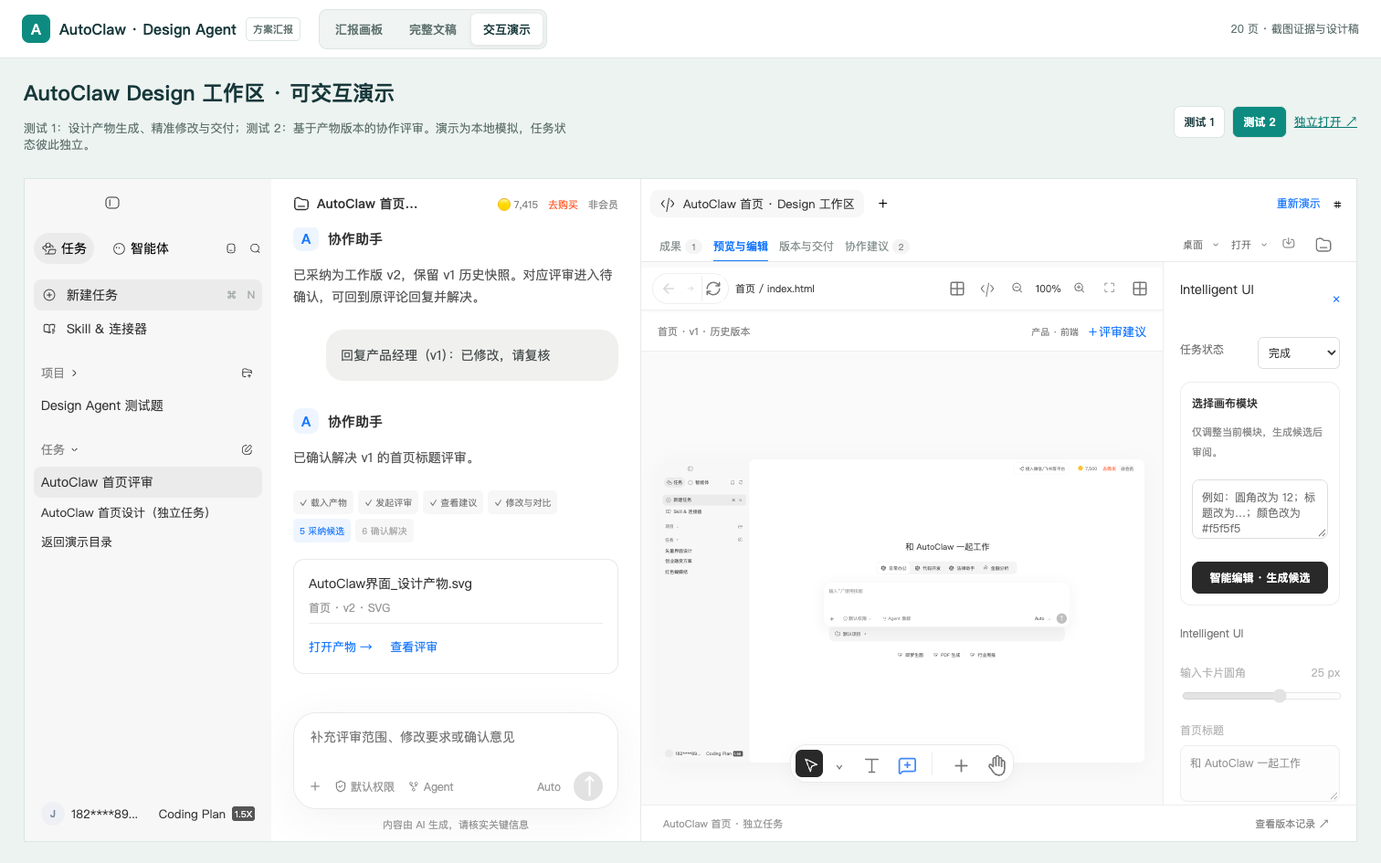
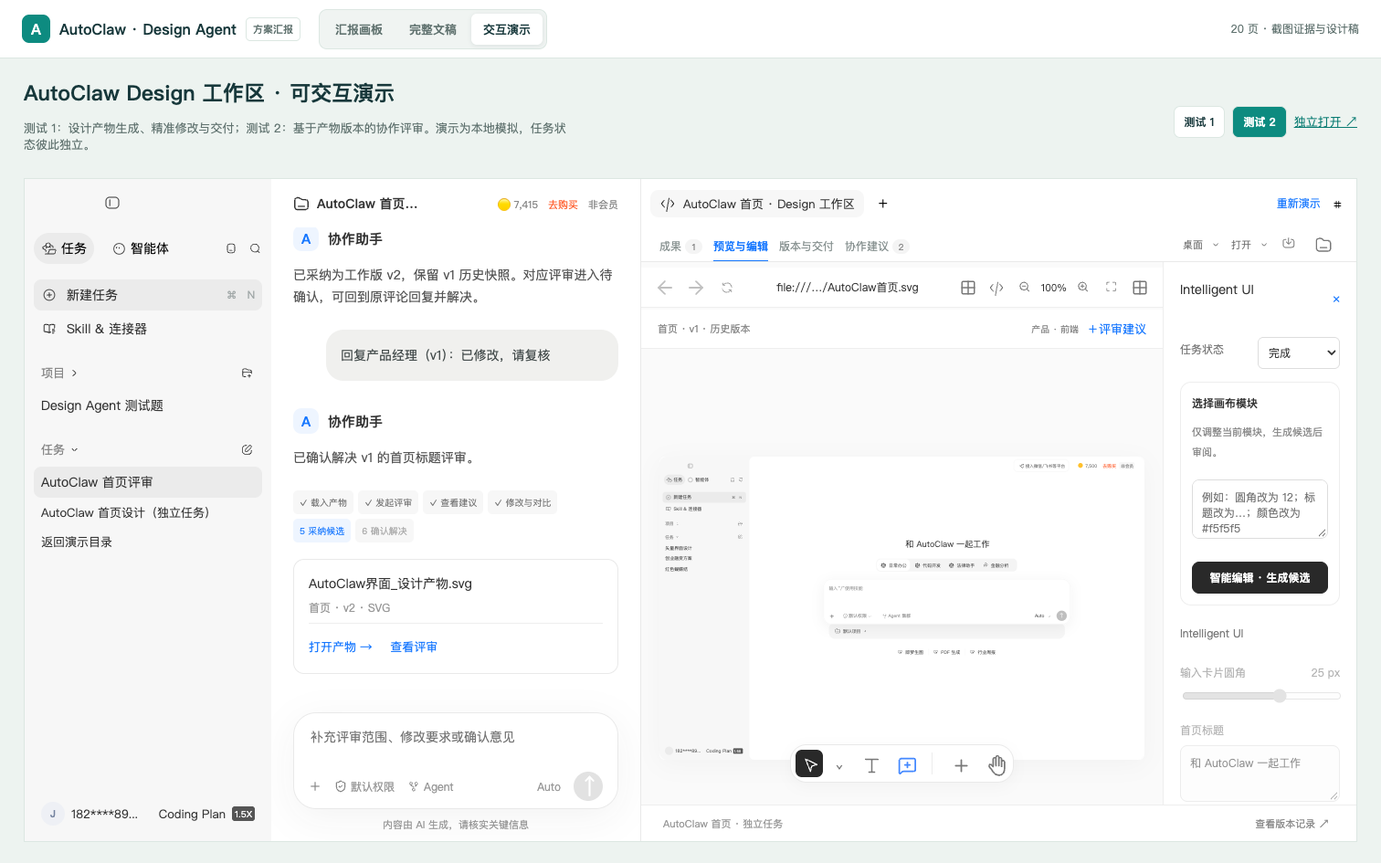
Open report cover directly and restore original preview navigation

diff --git a/docs/report/demo/autoclaw_task1_v18/icon-polish.js b/docs/report/demo/autoclaw_task1_v18/icon-polish.js
@@ -1,3 +1,3 @@
-(()=>{const style=document.createElement('style');style.textContent=`.canvas-top-tools{display:flex!important;flex-wrap:nowrap!important;gap:7px!important;min-height:44px!important;padding:6px 12px!important;box-sizing:border-box;overflow:visible!important}.canvas-top-tools>*{flex-shrink:0;white-space:nowrap!important}.canvas-top-tools .preview-file{flex:1 1 auto;min-width:24px;overflow:hidden;text-overflow:ellipsis;white-space:nowrap!important;font-size:11px}.canvas-top-tools button{display:inline-flex;align-items:center;justify-content:center;width:26px!important;height:28px!important;padding:3px!important;min-width:26px!important}.canvas-top-tools .preview-nav{gap:0;padding:2px 5px}.canvas-top-tools .preview-nav button{width:24px!important;min-width:24px!important}.export-icon{display:inline-block;width:24px;height:24px;background:currentColor;mask:var(--icon) center/24px 24px no-repeat;-webkit-mask:var(--icon) center/24px 24px no-repeat;pointer-events:none}.canvas-top-tools .export-icon{width:18px;height:18px;mask-size:24px 24px;-webkit-mask-size:24px 24px}.canvas-top-tools button.active{color:#287dff;background:#f0f6ff;border-radius:5px}.canvas-bottom-tools{height:42px!important;border-radius:18px!important;padding:5px!important;gap:9px!important}.canvas-bottom-tools button{width:30px!important;height:30px!important;border-radius:7px!important}.canvas-bottom-tools i{height:24px!important;margin:0 5px!important}.canvas-bottom-tools .select-menu summary{padding:5px}.work-top .work-tabs{flex-shrink:1;min-width:0;gap:12px!important}.work-top .work-tabs button{font-size:12px!important;white-space:nowrap;flex-shrink:0;padding:12px 0!important}.work-top .reading-menu summary{padding:0 3px;font-size:11px}.work-top{gap:5px!important}.work-tabs .count{font-size:10px}.canvas-bottom-tools [data-native=pan].pan-active{background:#292929;color:white}.native-chevron{width:14px!important}.canvas-top-tools span:not(.export-icon):not(.preview-file){font-size:11px}.preview-nav button[data-ui=refresh]{border-left:1px solid #eee;border-radius:0!important}@media(max-width:1100px){.work-top .work-tabs{gap:8px!important}.work-top .work-tabs button{font-size:11px!important}.work-top>.spacer{min-width:0!important}.canvas-top-tools{gap:3px!important;padding:5px 8px!important}.canvas-top-tools .preview-file{font-size:10px}}`;style.textContent+=`.export-image{display:block;width:24px!important;height:24px!important;filter:brightness(0);opacity:.53;pointer-events:none}.cursor-image{filter:brightness(0) invert(1);opacity:1}.canvas-top-tools .export-image{width:18px!important;height:18px!important}.canvas-bottom-tools [data-tool=comment] .export-image,.canvas-bottom-tools [data-tool=review] .export-image{filter:invert(39%) sepia(99%) saturate(2232%) hue-rotate(204deg) brightness(104%) contrast(102%);opacity:1}.work-top>[data-action=manager-open] img{display:block!important;width:24px!important;height:24px!important;filter:brightness(0);opacity:.53}.work-top>[data-action=manager-open]::after{display:none!important}.native-control-icon,.native-chevron{background:transparent!important;mask:none!important;-webkit-mask:none!important}.native-control-icon img{width:18px;height:18px;display:block}.native-chevron img{width:16px;height:16px;display:block;filter:brightness(0);opacity:.53}`;document.head.append(style);
+(()=>{const style=document.createElement('style');style.textContent=`.canvas-top-tools{display:flex!important;flex-wrap:nowrap!important;gap:7px!important;min-height:44px!important;padding:6px 12px!important;box-sizing:border-box;overflow:visible!important}.canvas-top-tools>*{flex-shrink:0;white-space:nowrap!important}.canvas-top-tools .preview-file{flex:1 1 auto;min-width:24px;overflow:hidden;text-overflow:ellipsis;white-space:nowrap!important;font-size:11px}.canvas-top-tools button{display:inline-flex;align-items:center;justify-content:center;width:26px!important;height:28px!important;padding:3px!important;min-width:26px!important}.canvas-top-tools .preview-nav{gap:0;padding:2px 5px}.canvas-top-tools .preview-nav button{width:24px!important;min-width:24px!important}.export-icon{display:inline-block;width:24px;height:24px;background:currentColor;mask:var(--icon) center/24px 24px no-repeat;-webkit-mask:var(--icon) center/24px 24px no-repeat;pointer-events:none}.canvas-top-tools .export-icon{width:18px;height:18px;mask-size:24px 24px;-webkit-mask-size:24px 24px}.canvas-top-tools button.active{color:#287dff;background:#f0f6ff;border-radius:5px}.canvas-bottom-tools{height:42px!important;border-radius:18px!important;padding:5px!important;gap:9px!important}.canvas-bottom-tools button{width:30px!important;height:30px!important;border-radius:7px!important}.canvas-bottom-tools i{height:24px!important;margin:0 5px!important}.canvas-bottom-tools .select-menu summary{padding:5px}.work-top .work-tabs{flex-shrink:1;min-width:0;gap:12px!important}.work-top .work-tabs button{font-size:12px!important;white-space:nowrap;flex-shrink:0;padding:12px 0!important}.work-top .reading-menu summary{padding:0 3px;font-size:11px}.work-top{gap:5px!important}.work-tabs .count{font-size:10px}.canvas-bottom-tools [data-native=pan].pan-active{background:#292929;color:white}.native-chevron{width:14px!important}.canvas-top-tools span:not(.export-icon):not(.preview-file){font-size:11px}.preview-nav button[data-ui=refresh]{border-left:1px solid #eee;border-radius:0!important}@media(max-width:1100px){.work-top .work-tabs{gap:8px!important}.work-top .work-tabs button{font-size:11px!important}.work-top>.spacer{min-width:0!important}.canvas-top-tools{gap:3px!important;padding:5px 8px!important}.canvas-top-tools .preview-file{font-size:10px}}`;style.textContent+=`.export-image{display:block;width:24px!important;height:24px!important;filter:brightness(0);opacity:.53;pointer-events:none}.cursor-image{filter:brightness(0) invert(1);opacity:1}.canvas-top-tools .export-image{width:18px!important;height:18px!important}.canvas-bottom-tools [data-tool=comment] .export-image,.canvas-bottom-tools [data-tool=review] .export-image{filter:invert(39%) sepia(99%) saturate(2232%) hue-rotate(204deg) brightness(104%) contrast(102%);opacity:1}.work-top>[data-action=manager-open] img{display:block!important;width:24px!important;height:24px!important;filter:brightness(0);opacity:.53}.work-top>[data-action=manager-open]::after{display:none!important}.native-control-icon,.native-chevron{background:transparent!important;mask:none!important;-webkit-mask:none!important}.native-control-icon img{width:18px;height:18px;display:block}.native-chevron img{width:16px;height:16px;display:block;filter:brightness(0);opacity:.53}`;style.textContent+=`.canvas-top-tools .preview-nav{border:0!important;background:transparent!important;border-radius:0!important;padding:0!important;gap:7px!important}.canvas-top-tools .preview-nav button{width:27px!important;min-width:27px!important;height:30px!important;border:0!important;background:transparent!important}.preview-nav button[data-ui=refresh]{border:0!important}.canvas-top-tools .preview-nav .export-image{width:24px!important;height:24px!important;opacity:.38}.canvas-top-tools .preview-nav button:disabled{opacity:.65}.preview-nav [data-ui=forward] img{transform:scaleX(-1)}.canvas-top-tools .preview-file{text-align:center!important;font-size:12px!important;font-weight:400!important;color:#333;line-height:30px}.canvas-top-tools .preview-file::before{content:''}.canvas-top-tools{gap:5px!important}`;document.head.append(style);
 function set(el,name,label){if(!el||el.dataset.iconPolished===name)return;el.dataset.iconPolished=name;el.innerHTML=`<img class="export-image ${name==='cursor'?'cursor-image':''}" src="assets/${name}.svg" alt="">`;if(label){el.title=label;el.setAttribute('aria-label',label)}}
-function polish(){const bar=document.querySelector('.canvas-top-tools');if(bar){set(bar.querySelector('[data-ui=back]'),'native-arrow-left','后退');set(bar.querySelector('[data-ui=forward]'),'native-arrow-right','前进');set(bar.querySelector('[data-ui=refresh]'),'refresh-cw','刷新');set(bar.querySelector('[data-tab=canvas]'),'native-grid-2x2','画布');set(bar.querySelector('[data-tab=code]'),'file-code','代码');set(bar.querySelector('[data-action=zoom-out]'),'zoom-out-export','缩小');set(bar.querySelector('[data-action=zoom-in]'),'zoom-in-export','放大');set(bar.querySelector('[data-action=fit]'),'fit-export','适应画布');set(bar.querySelector('[data-action=toggle-panel]'),'native-grid-2x2','展开或收起参数')}const bottom=document.querySelector('.canvas-bottom-tools');if(bottom){set(bottom.querySelector('[data-tool=select]'),'cursor','选择');set(bottom.querySelector('[data-tool=text]'),'type','编辑文字');set(bottom.querySelector('[data-tool=comment],[data-tool=review]'),'comment-plus','画布评论');set(bottom.querySelector('[data-native=add]'),'plus-export','添加项目文件');set(bottom.querySelector('[data-native=pan]'),'hand-export','拖动画布')}}new MutationObserver(polish).observe(document.querySelector('.task1-body'),{childList:true,subtree:true});polish();})();
+function polish(){const bar=document.querySelector('.canvas-top-tools');if(bar){const file=bar.querySelector('.preview-file');if(file&&file.textContent!=='file:///…/AutoClaw首页.svg'){file.textContent='file:///…/AutoClaw首页.svg';file.title='AutoClaw首页_设计产物.svg'}set(bar.querySelector('[data-ui=back]'),'native-arrow-left','后退');set(bar.querySelector('[data-ui=forward]'),'native-arrow-left','前进');set(bar.querySelector('[data-ui=refresh]'),'browser-refresh','刷新');set(bar.querySelector('[data-tab=canvas]'),'native-grid-2x2','画布');set(bar.querySelector('[data-tab=code]'),'file-code','代码');set(bar.querySelector('[data-action=zoom-out]'),'zoom-out-export','缩小');set(bar.querySelector('[data-action=zoom-in]'),'zoom-in-export','放大');set(bar.querySelector('[data-action=fit]'),'fit-export','适应画布');set(bar.querySelector('[data-action=toggle-panel]'),'native-grid-2x2','展开或收起参数')}const bottom=document.querySelector('.canvas-bottom-tools');if(bottom){set(bottom.querySelector('[data-tool=select]'),'cursor','选择');set(bottom.querySelector('[data-tool=text]'),'type','编辑文字');set(bottom.querySelector('[data-tool=comment],[data-tool=review]'),'comment-plus','画布评论');set(bottom.querySelector('[data-native=add]'),'plus-export','添加项目文件');set(bottom.querySelector('[data-native=pan]'),'hand-export','拖动画布')}}new MutationObserver(polish).observe(document.querySelector('.task1-body'),{childList:true,subtree:true});polish();})();

diff --git a/docs/report/demo/autoclaw_task2_v18/icon-polish.js b/docs/report/demo/autoclaw_task2_v18/icon-polish.js
@@ -1,3 +1,3 @@
-(()=>{const style=document.createElement('style');style.textContent=`.canvas-top-tools{display:flex!important;flex-wrap:nowrap!important;gap:7px!important;min-height:44px!important;padding:6px 12px!important;box-sizing:border-box;overflow:visible!important}.canvas-top-tools>*{flex-shrink:0;white-space:nowrap!important}.canvas-top-tools .preview-file{flex:1 1 auto;min-width:24px;overflow:hidden;text-overflow:ellipsis;white-space:nowrap!important;font-size:11px}.canvas-top-tools button{display:inline-flex;align-items:center;justify-content:center;width:26px!important;height:28px!important;padding:3px!important;min-width:26px!important}.canvas-top-tools .preview-nav{gap:0;padding:2px 5px}.canvas-top-tools .preview-nav button{width:24px!important;min-width:24px!important}.export-icon{display:inline-block;width:24px;height:24px;background:currentColor;mask:var(--icon) center/24px 24px no-repeat;-webkit-mask:var(--icon) center/24px 24px no-repeat;pointer-events:none}.canvas-top-tools .export-icon{width:18px;height:18px;mask-size:24px 24px;-webkit-mask-size:24px 24px}.canvas-top-tools button.active{color:#287dff;background:#f0f6ff;border-radius:5px}.canvas-bottom-tools{height:42px!important;border-radius:18px!important;padding:5px!important;gap:9px!important}.canvas-bottom-tools button{width:30px!important;height:30px!important;border-radius:7px!important}.canvas-bottom-tools i{height:24px!important;margin:0 5px!important}.canvas-bottom-tools .select-menu summary{padding:5px}.work-top .work-tabs{flex-shrink:1;min-width:0;gap:12px!important}.work-top .work-tabs button{font-size:12px!important;white-space:nowrap;flex-shrink:0;padding:12px 0!important}.work-top .reading-menu summary{padding:0 3px;font-size:11px}.work-top{gap:5px!important}.work-tabs .count{font-size:10px}.canvas-bottom-tools [data-native=pan].pan-active{background:#292929;color:white}.native-chevron{width:14px!important}.canvas-top-tools span:not(.export-icon):not(.preview-file){font-size:11px}.preview-nav button[data-ui=refresh]{border-left:1px solid #eee;border-radius:0!important}@media(max-width:1100px){.work-top .work-tabs{gap:8px!important}.work-top .work-tabs button{font-size:11px!important}.work-top>.spacer{min-width:0!important}.canvas-top-tools{gap:3px!important;padding:5px 8px!important}.canvas-top-tools .preview-file{font-size:10px}}`;style.textContent+=`.export-image{display:block;width:24px!important;height:24px!important;filter:brightness(0);opacity:.53;pointer-events:none}.cursor-image{filter:brightness(0) invert(1);opacity:1}.canvas-top-tools .export-image{width:18px!important;height:18px!important}.canvas-bottom-tools [data-tool=comment] .export-image,.canvas-bottom-tools [data-tool=review] .export-image{filter:invert(39%) sepia(99%) saturate(2232%) hue-rotate(204deg) brightness(104%) contrast(102%);opacity:1}.work-top>[data-action=manager-open] img{display:block!important;width:24px!important;height:24px!important;filter:brightness(0);opacity:.53}.work-top>[data-action=manager-open]::after{display:none!important}.native-control-icon,.native-chevron{background:transparent!important;mask:none!important;-webkit-mask:none!important}.native-control-icon img{width:18px;height:18px;display:block}.native-chevron img{width:16px;height:16px;display:block;filter:brightness(0);opacity:.53}`;document.head.append(style);
+(()=>{const style=document.createElement('style');style.textContent=`.canvas-top-tools{display:flex!important;flex-wrap:nowrap!important;gap:7px!important;min-height:44px!important;padding:6px 12px!important;box-sizing:border-box;overflow:visible!important}.canvas-top-tools>*{flex-shrink:0;white-space:nowrap!important}.canvas-top-tools .preview-file{flex:1 1 auto;min-width:24px;overflow:hidden;text-overflow:ellipsis;white-space:nowrap!important;font-size:11px}.canvas-top-tools button{display:inline-flex;align-items:center;justify-content:center;width:26px!important;height:28px!important;padding:3px!important;min-width:26px!important}.canvas-top-tools .preview-nav{gap:0;padding:2px 5px}.canvas-top-tools .preview-nav button{width:24px!important;min-width:24px!important}.export-icon{display:inline-block;width:24px;height:24px;background:currentColor;mask:var(--icon) center/24px 24px no-repeat;-webkit-mask:var(--icon) center/24px 24px no-repeat;pointer-events:none}.canvas-top-tools .export-icon{width:18px;height:18px;mask-size:24px 24px;-webkit-mask-size:24px 24px}.canvas-top-tools button.active{color:#287dff;background:#f0f6ff;border-radius:5px}.canvas-bottom-tools{height:42px!important;border-radius:18px!important;padding:5px!important;gap:9px!important}.canvas-bottom-tools button{width:30px!important;height:30px!important;border-radius:7px!important}.canvas-bottom-tools i{height:24px!important;margin:0 5px!important}.canvas-bottom-tools .select-menu summary{padding:5px}.work-top .work-tabs{flex-shrink:1;min-width:0;gap:12px!important}.work-top .work-tabs button{font-size:12px!important;white-space:nowrap;flex-shrink:0;padding:12px 0!important}.work-top .reading-menu summary{padding:0 3px;font-size:11px}.work-top{gap:5px!important}.work-tabs .count{font-size:10px}.canvas-bottom-tools [data-native=pan].pan-active{background:#292929;color:white}.native-chevron{width:14px!important}.canvas-top-tools span:not(.export-icon):not(.preview-file){font-size:11px}.preview-nav button[data-ui=refresh]{border-left:1px solid #eee;border-radius:0!important}@media(max-width:1100px){.work-top .work-tabs{gap:8px!important}.work-top .work-tabs button{font-size:11px!important}.work-top>.spacer{min-width:0!important}.canvas-top-tools{gap:3px!important;padding:5px 8px!important}.canvas-top-tools .preview-file{font-size:10px}}`;style.textContent+=`.export-image{display:block;width:24px!important;height:24px!important;filter:brightness(0);opacity:.53;pointer-events:none}.cursor-image{filter:brightness(0) invert(1);opacity:1}.canvas-top-tools .export-image{width:18px!important;height:18px!important}.canvas-bottom-tools [data-tool=comment] .export-image,.canvas-bottom-tools [data-tool=review] .export-image{filter:invert(39%) sepia(99%) saturate(2232%) hue-rotate(204deg) brightness(104%) contrast(102%);opacity:1}.work-top>[data-action=manager-open] img{display:block!important;width:24px!important;height:24px!important;filter:brightness(0);opacity:.53}.work-top>[data-action=manager-open]::after{display:none!important}.native-control-icon,.native-chevron{background:transparent!important;mask:none!important;-webkit-mask:none!important}.native-control-icon img{width:18px;height:18px;display:block}.native-chevron img{width:16px;height:16px;display:block;filter:brightness(0);opacity:.53}`;style.textContent+=`.canvas-top-tools .preview-nav{border:0!important;background:transparent!important;border-radius:0!important;padding:0!important;gap:7px!important}.canvas-top-tools .preview-nav button{width:27px!important;min-width:27px!important;height:30px!important;border:0!important;background:transparent!important}.preview-nav button[data-ui=refresh]{border:0!important}.canvas-top-tools .preview-nav .export-image{width:24px!important;height:24px!important;opacity:.38}.canvas-top-tools .preview-nav button:disabled{opacity:.65}.preview-nav [data-ui=forward] img{transform:scaleX(-1)}.canvas-top-tools .preview-file{text-align:center!important;font-size:12px!important;font-weight:400!important;color:#333;line-height:30px}.canvas-top-tools .preview-file::before{content:''}.canvas-top-tools{gap:5px!important}`;document.head.append(style);
 function set(el,name,label){if(!el||el.dataset.iconPolished===name)return;el.dataset.iconPolished=name;el.innerHTML=`<img class="export-image ${name==='cursor'?'cursor-image':''}" src="assets/${name}.svg" alt="">`;if(label){el.title=label;el.setAttribute('aria-label',label)}}
-function polish(){const bar=document.querySelector('.canvas-top-tools');if(bar){set(bar.querySelector('[data-ui=back]'),'native-arrow-left','后退');set(bar.querySelector('[data-ui=forward]'),'native-arrow-right','前进');set(bar.querySelector('[data-ui=refresh]'),'refresh-cw','刷新');set(bar.querySelector('[data-tab=canvas]'),'native-grid-2x2','画布');set(bar.querySelector('[data-tab=code]'),'file-code','代码');set(bar.querySelector('[data-action=zoom-out]'),'zoom-out-export','缩小');set(bar.querySelector('[data-action=zoom-in]'),'zoom-in-export','放大');set(bar.querySelector('[data-action=fit]'),'fit-export','适应画布');set(bar.querySelector('[data-action=toggle-panel]'),'native-grid-2x2','展开或收起参数')}const bottom=document.querySelector('.canvas-bottom-tools');if(bottom){set(bottom.querySelector('[data-tool=select]'),'cursor','选择');set(bottom.querySelector('[data-tool=text]'),'type','编辑文字');set(bottom.querySelector('[data-tool=comment],[data-tool=review]'),'comment-plus','画布评论');set(bottom.querySelector('[data-native=add]'),'plus-export','添加项目文件');set(bottom.querySelector('[data-native=pan]'),'hand-export','拖动画布')}}new MutationObserver(polish).observe(document.querySelector('.task1-body'),{childList:true,subtree:true});polish();})();
+function polish(){const bar=document.querySelector('.canvas-top-tools');if(bar){const file=bar.querySelector('.preview-file');if(file&&file.textContent!=='file:///…/AutoClaw首页.svg'){file.textContent='file:///…/AutoClaw首页.svg';file.title='AutoClaw首页_设计产物.svg'}set(bar.querySelector('[data-ui=back]'),'native-arrow-left','后退');set(bar.querySelector('[data-ui=forward]'),'native-arrow-left','前进');set(bar.querySelector('[data-ui=refresh]'),'browser-refresh','刷新');set(bar.querySelector('[data-tab=canvas]'),'native-grid-2x2','画布');set(bar.querySelector('[data-tab=code]'),'file-code','代码');set(bar.querySelector('[data-action=zoom-out]'),'zoom-out-export','缩小');set(bar.querySelector('[data-action=zoom-in]'),'zoom-in-export','放大');set(bar.querySelector('[data-action=fit]'),'fit-export','适应画布');set(bar.querySelector('[data-action=toggle-panel]'),'native-grid-2x2','展开或收起参数')}const bottom=document.querySelector('.canvas-bottom-tools');if(bottom){set(bottom.querySelector('[data-tool=select]'),'cursor','选择');set(bottom.querySelector('[data-tool=text]'),'type','编辑文字');set(bottom.querySelector('[data-tool=comment],[data-tool=review]'),'comment-plus','画布评论');set(bottom.querySelector('[data-native=add]'),'plus-export','添加项目文件');set(bottom.querySelector('[data-native=pan]'),'hand-export','拖动画布')}}new MutationObserver(polish).observe(document.querySelector('.task1-body'),{childList:true,subtree:true});polish();})();

diff --git a/docs/index.html b/docs/index.html
@@ -1,1 +1,1 @@
-<!doctype html><html lang="zh-CN"><meta charset="utf-8"><meta name="viewport" content="width=device-width,initial-scale=1"><title>智谱测试题提交 · 周景 · 产品体验设计</title><style>body{max-width:980px;margin:48px auto;padding:0 24px;font:16px/1.8 -apple-system,BlinkMacSystemFont,"PingFang SC","Microsoft YaHei",sans-serif;color:#262626}a{color:#287dff}img{max-width:100%}table{border-collapse:collapse;width:100%}td,th{border:1px solid #ddd;padding:8px}pre{overflow:auto;background:#f7f7f7;padding:16px}body{background:#fafafa}h1{font-size:32px;line-height:1.4}.grid{display:grid;grid-template-columns:repeat(auto-fit,minmax(280px,1fr));gap:16px}.card{display:block;padding:22px;background:white;border:1px solid #e9e9e9;border-radius:16px;text-decoration:none;color:#262626}.card p{color:#777;font-size:14px;margin-bottom:0}</style><h1>智谱测试题提交<br>周景 · 产品体验设计</h1><p>2026.10.12 ｜ AutoClaw Design Agent</p><p>建议先看方案汇报，再分别体验两条任务。解压后双击最外层 index.html 即可打开，无需安装程序或启动服务。</p><div class="grid"><a class="card" href="report/index.html"><strong>01 方案汇报与交互演示</strong><p>20 页画板、完整文稿，测试1与测试2分开演示</p></a><a class="card" href="report/demo/autoclaw_task1_v18/index.html"><strong>02 测试1 · 设计产物链路</strong><p>任务生成、产物管理、模块编辑、候选与交付</p></a><a class="card" href="report/demo/autoclaw_task2_v18/index.html"><strong>03 测试2 · 独立协作评审</strong><p>既有版本、头像评审、修改候选与记录</p></a><a class="card" href="report/design-spec/index.html"><strong>04 设计规范</strong><p>7 章视觉规范与完整下载</p></a><a class="card" href="report/2026-10-12_AutoClaw_DesignWorkspace_PRD_修订V04.html"><strong>05 PRD · 当前修订版</strong><p>功能范围、规则与验证边界</p></a><a class="card" href="report/references/02-MVP过程.pdf"><strong>06 MVP · 过程材料</strong><p>MVP 研究原件；以当前 PRD 为最新范围</p></a><a class="card" href="report/references/01-竞品调研.pdf"><strong>07 竞品调研</strong><p>竞品观察 PDF 原件</p></a><a class="card" href="report/2026-10-12_AutoClaw_DesignAgent_完整文稿汇总_V17.html"><strong>08 完整汇报文稿</strong><p>可读 HTML 与同目录可编辑 Markdown</p></a><a class="card" href="report/方案汇报_阅读版.pdf"><strong>09 方案汇报 PDF</strong><p>静态阅读版；最新交互以 HTML 为准</p></a><a class="card" href="process/index.html"><strong>10 研究与架构过程</strong><p>保留历史研究、MVP 与结构演进</p></a><a class="card" href="design/index.html"><strong>11 可编辑设计稿与 Figma 素材</strong><p>主界面 SVG、原生图层、插件、导出稿与图标</p></a><a class="card" href="links.html"><strong>12 在线源稿与参考链接</strong><p>Figma、GitHub 和外部来源</p></a><a class="card" href="research-media/AutoClaw录屏.mp4"><strong>13 AutoClaw 录屏</strong><p>跨设备预览压缩副本，未改写原视频</p></a><a class="card" href="research-media/Lovart录屏.mp4"><strong>14 Lovart 录屏</strong><p>竞品研究视频预览副本</p></a></div><p><a href="verification/交付验收报告.html">查看交付验收报告</a></p><p>演示为本地交互模拟。参数编辑、候选、导出可操作；刷新重置演示状态。SVG 可导入 Figma，中文字体由设备字体决定。手机文件预览器可能限制脚本，建议桌面浏览器或在线站点。</p></html>
+<!doctype html><html lang="zh-CN"><meta charset="utf-8"><title>AutoClaw · 方案汇报</title><script>location.replace("report/index.html"+(location.hash||"#slide-01"))</script><noscript><meta http-equiv="refresh" content="0;url=report/index.html#slide-01"></noscript><a href="report/index.html#slide-01">打开汇报首页</a></html>

diff --git a/docs/attachments.html b/docs/attachments.html
@@ -1,0 +1,1 @@
+<!doctype html><html lang="zh-CN"><meta charset="utf-8"><meta name="viewport" content="width=device-width,initial-scale=1"><title>智谱测试题提交 · 周景 · 产品体验设计</title><style>body{max-width:980px;margin:48px auto;padding:0 24px;font:16px/1.8 -apple-system,BlinkMacSystemFont,"PingFang SC","Microsoft YaHei",sans-serif;color:#262626}a{color:#287dff}img{max-width:100%}table{border-collapse:collapse;width:100%}td,th{border:1px solid #ddd;padding:8px}pre{overflow:auto;background:#f7f7f7;padding:16px}body{background:#fafafa}h1{font-size:32px;line-height:1.4}.grid{display:grid;grid-template-columns:repeat(auto-fit,minmax(280px,1fr));gap:16px}.card{display:block;padding:22px;background:white;border:1px solid #e9e9e9;border-radius:16px;text-decoration:none;color:#262626}.card p{color:#777;font-size:14px;margin-bottom:0}</style><h1>智谱测试题提交<br>周景 · 产品体验设计</h1><p>2026.10.12 ｜ AutoClaw Design Agent</p><p>建议先看方案汇报，再分别体验两条任务。解压后双击最外层 index.html 即可打开，无需安装程序或启动服务。</p><div class="grid"><a class="card" href="report/index.html"><strong>01 方案汇报与交互演示</strong><p>20 页画板、完整文稿，测试1与测试2分开演示</p></a><a class="card" href="report/demo/autoclaw_task1_v18/index.html"><strong>02 测试1 · 设计产物链路</strong><p>任务生成、产物管理、模块编辑、候选与交付</p></a><a class="card" href="report/demo/autoclaw_task2_v18/index.html"><strong>03 测试2 · 独立协作评审</strong><p>既有版本、头像评审、修改候选与记录</p></a><a class="card" href="report/design-spec/index.html"><strong>04 设计规范</strong><p>7 章视觉规范与完整下载</p></a><a class="card" href="report/2026-10-12_AutoClaw_DesignWorkspace_PRD_修订V04.html"><strong>05 PRD · 当前修订版</strong><p>功能范围、规则与验证边界</p></a><a class="card" href="report/references/02-MVP过程.pdf"><strong>06 MVP · 过程材料</strong><p>MVP 研究原件；以当前 PRD 为最新范围</p></a><a class="card" href="report/references/01-竞品调研.pdf"><strong>07 竞品调研</strong><p>竞品观察 PDF 原件</p></a><a class="card" href="report/2026-10-12_AutoClaw_DesignAgent_完整文稿汇总_V17.html"><strong>08 完整汇报文稿</strong><p>可读 HTML 与同目录可编辑 Markdown</p></a><a class="card" href="report/方案汇报_阅读版.pdf"><strong>09 方案汇报 PDF</strong><p>静态阅读版；最新交互以 HTML 为准</p></a><a class="card" href="process/index.html"><strong>10 研究与架构过程</strong><p>保留历史研究、MVP 与结构演进</p></a><a class="card" href="design/index.html"><strong>11 可编辑设计稿与 Figma 素材</strong><p>主界面 SVG、原生图层、插件、导出稿与图标</p></a><a class="card" href="links.html"><strong>12 在线源稿与参考链接</strong><p>Figma、GitHub 和外部来源</p></a><a class="card" href="research-media/AutoClaw录屏.mp4"><strong>13 AutoClaw 录屏</strong><p>跨设备预览压缩副本，未改写原视频</p></a><a class="card" href="research-media/Lovart录屏.mp4"><strong>14 Lovart 录屏</strong><p>竞品研究视频预览副本</p></a></div><p><a href="verification/交付验收报告.html">查看交付验收报告</a></p><p>演示为本地交互模拟。参数编辑、候选、导出可操作；刷新重置演示状态。SVG 可导入 Figma，中文字体由设备字体决定。手机文件预览器可能限制脚本，建议桌面浏览器或在线站点。</p></html>

diff --git a/docs/verification/交付验收报告.html b/docs/verification/交付验收报告.html
@@ -1,7 +1,7 @@
-<!doctype html><html lang="zh-CN"><meta charset="utf-8"><title>交付验收报告</title><style>body{max-width:900px;margin:40px auto;padding:0 24px;font:16px/1.8 -apple-system,PingFang SC,sans-serif}</style><h1>1012 交付验收</h1>
+<!doctype html><html lang="zh-CN"><meta charset="utf-8"><title>交付验收报告</title><style>body{max-width:900px;margin:40px auto;font:16px/1.8 -apple-system,PingFang SC,sans-serif}</style><h1>1012 交付验收</h1>
 <h2>已验证</h2>
 <ul>
-<li>解压至不同路径后，断网打开统一首页与14个分类入口</li>
+<li>解压至不同路径后，断网直接打开汇报首页</li>
 <li>20页汇报及图片可离线加载</li>
 <li>测试1：圆角修改→候选对比→采纳v2→定稿→真实SVG下载</li>
 <li>测试2：发起评审→头像气泡→候选对比→采纳→回复→解决</li>
@@ -20,4 +20,5 @@
 <p>原视频保留不动，交付包中为720p压缩预览副本。未取得 .fig，使用可导入的 SVG、原生图层 JSON、插件及 Figma 在线源稿链接交付。</p>
 <h2>GitHub 与在线站点</h2>
 <p>已更新 https://github.com/Raddie-Jean/AutoClaw-Design 的 main。公开站点：https://raddie-jean.github.io/AutoClaw-Design/ 。在线首页、汇报内嵌演示、两条任务的产物管理和7章设计规范均已通过无登录浏览器访问。</p>
-<p>完整 ZIP 已进行 CRC 检查、解压后逐文件 SHA256 对比，并在解压路径重新离线打开首页、测试1、测试2。发送时请发送整个 ZIP，收件人解压后打开最外层 index.html。</p></html>
+<p>完整 ZIP 已进行 CRC 检查、解压后逐文件 SHA256 对比，并在解压路径重新离线打开首页、测试1、测试2。发送时请发送整个 ZIP，收件人解压后打开最外层 index.html。</p>
+<p>首页入口已改为直接进入汇报封面，不再展示资料清单。顶部导航恢复独立箭头与原生刷新图标，文件名居中简写显示。</p></html>

diff --git a/交付验收报告.html b/交付验收报告.html
@@ -1,7 +1,7 @@
-<!doctype html><html lang="zh-CN"><meta charset="utf-8"><title>交付验收报告</title><style>body{max-width:900px;margin:40px auto;padding:0 24px;font:16px/1.8 -apple-system,PingFang SC,sans-serif}</style><h1>1012 交付验收</h1>
+<!doctype html><html lang="zh-CN"><meta charset="utf-8"><title>交付验收报告</title><style>body{max-width:900px;margin:40px auto;font:16px/1.8 -apple-system,PingFang SC,sans-serif}</style><h1>1012 交付验收</h1>
 <h2>已验证</h2>
 <ul>
-<li>解压至不同路径后，断网打开统一首页与14个分类入口</li>
+<li>解压至不同路径后，断网直接打开汇报首页</li>
 <li>20页汇报及图片可离线加载</li>
 <li>测试1：圆角修改→候选对比→采纳v2→定稿→真实SVG下载</li>
 <li>测试2：发起评审→头像气泡→候选对比→采纳→回复→解决</li>
@@ -20,4 +20,5 @@
 <p>原视频保留不动，交付包中为720p压缩预览副本。未取得 .fig，使用可导入的 SVG、原生图层 JSON、插件及 Figma 在线源稿链接交付。</p>
 <h2>GitHub 与在线站点</h2>
 <p>已更新 https://github.com/Raddie-Jean/AutoClaw-Design 的 main。公开站点：https://raddie-jean.github.io/AutoClaw-Design/ 。在线首页、汇报内嵌演示、两条任务的产物管理和7章设计规范均已通过无登录浏览器访问。</p>
-<p>完整 ZIP 已进行 CRC 检查、解压后逐文件 SHA256 对比，并在解压路径重新离线打开首页、测试1、测试2。发送时请发送整个 ZIP，收件人解压后打开最外层 index.html。</p></html>
+<p>完整 ZIP 已进行 CRC 检查、解压后逐文件 SHA256 对比，并在解压路径重新离线打开首页、测试1、测试2。发送时请发送整个 ZIP，收件人解压后打开最外层 index.html。</p>
+<p>首页入口已改为直接进入汇报封面，不再展示资料清单。顶部导航恢复独立箭头与原生刷新图标，文件名居中简写显示。</p></html>

diff --git a/index.html b/index.html
@@ -1,1 +1,1 @@
-<!doctype html><html lang="zh-CN"><meta charset="utf-8"><meta http-equiv="refresh" content="0;url=docs/index.html"><title>智谱测试题提交</title><a href="docs/index.html">打开智谱测试题交付首页</a></html>
+<!doctype html><html lang="zh-CN"><meta charset="utf-8"><title>AutoClaw · 方案汇报</title><script>location.replace("docs/report/index.html"+(location.hash||"#slide-01"))</script><noscript><meta http-equiv="refresh" content="0;url=docs/report/index.html#slide-01"></noscript><a href="docs/report/index.html#slide-01">打开汇报首页</a></html>

diff --git a/验证脚本/verify_offline.py b/验证脚本/verify_offline.py
@@ -7,7 +7,7 @@ with sync_playwright() as p:
  ctx=b.new_context(viewport={'width':1512,'height':945},accept_downloads=True)
  ctx.route('http://**/*',lambda r:(blocked.append(r.request.url),r.abort()));ctx.route('https://**/*',lambda r:(blocked.append(r.request.url),r.abort()))
  page=ctx.new_page();page.set_default_timeout(8000);page.on('pageerror',lambda e:errors.append(str(e)))
- page.goto((D/'index.html').as_uri());page.locator('.card').first.wait_for();assert '智谱测试题' in page.title();assert page.locator('.card').count()==14;results.append('解压至不同路径后，断网打开统一首页与14个分类入口')
+ page.goto((D/'index.html').as_uri());page.locator('.slide.active').wait_for();assert page.locator('.slide').count()==20;results.append('解压至不同路径后，断网直接打开汇报首页')
  page.goto((D/'docs/report/index.html').as_uri());assert page.locator('.slide').count()==20
  for i in range(20):
   page.locator('#slide-select').select_option(str(i)) if page.locator('#slide-select').count() else page.locator('#next').click() if i else None

diff --git a/docs/verification/交付验收报告.md b/docs/verification/交付验收报告.md
@@ -2,7 +2,7 @@
 
 ## 已验证
 
-- 解压至不同路径后，断网打开统一首页与14个分类入口
+- 解压至不同路径后，断网直接打开汇报首页
 - 20页汇报及图片可离线加载
 - 测试1：圆角修改→候选对比→采纳v2→定稿→真实SVG下载
 - 测试2：发起评审→头像气泡→候选对比→采纳→回复→解决
@@ -30,3 +30,5 @@
 已更新 https://github.com/Raddie-Jean/AutoClaw-Design 的 main。公开站点：https://raddie-jean.github.io/AutoClaw-Design/ 。在线首页、汇报内嵌演示、两条任务的产物管理和7章设计规范均已通过无登录浏览器访问。
 
 完整 ZIP 已进行 CRC 检查、解压后逐文件 SHA256 对比，并在解压路径重新离线打开首页、测试1、测试2。发送时请发送整个 ZIP，收件人解压后打开最外层 index.html。
+
+首页入口已改为直接进入汇报封面，不再展示资料清单。顶部导航恢复独立箭头与原生刷新图标，文件名居中简写显示。

diff --git a/交付验收报告.md b/交付验收报告.md
@@ -2,7 +2,7 @@
 
 ## 已验证
 
-- 解压至不同路径后，断网打开统一首页与14个分类入口
+- 解压至不同路径后，断网直接打开汇报首页
 - 20页汇报及图片可离线加载
 - 测试1：圆角修改→候选对比→采纳v2→定稿→真实SVG下载
 - 测试2：发起评审→头像气泡→候选对比→采纳→回复→解决
@@ -30,3 +30,5 @@
 已更新 https://github.com/Raddie-Jean/AutoClaw-Design 的 main。公开站点：https://raddie-jean.github.io/AutoClaw-Design/ 。在线首页、汇报内嵌演示、两条任务的产物管理和7章设计规范均已通过无登录浏览器访问。
 
 完整 ZIP 已进行 CRC 检查、解压后逐文件 SHA256 对比，并在解压路径重新离线打开首页、测试1、测试2。发送时请发送整个 ZIP，收件人解压后打开最外层 index.html。
+
+首页入口已改为直接进入汇报封面，不再展示资料清单。顶部导航恢复独立箭头与原生刷新图标，文件名居中简写显示。

diff --git a/README.md b/README.md
@@ -1,6 +1,6 @@
 # 智谱测试题提交-周景-产品体验设计 1012
 
-解压整个文件夹后，用 Chrome / Edge / Safari 打开最外层 `index.html`。不要只发送单个 HTML 文件，也不要直接从压缩包预览。无需安装软件、登录本机账号或运行服务。目录和文件名请一起保留。
+解压整个文件夹后，用 Chrome / Edge / Safari 打开最外层 `index.html`，直接进入汇报首页。不要只发送单个 HTML 文件，也不要直接从压缩包预览。无需安装软件、登录本机账号或运行服务。目录和文件名请一起保留。
 
 ## 交付内容
 
@@ -25,3 +25,5 @@
 [在线交付首页](https://raddie-jean.github.io/AutoClaw-Design/) · [GitHub仓库](https://github.com/Raddie-Jean/AutoClaw-Design)
 
 在线首页与主要演示已通过公开访问验证，见在线验收.json。离线交付不依赖这些在线链接。
+
+入口更新：不再展示资料清单，在线首页和离线入口直接进入汇报封面。
